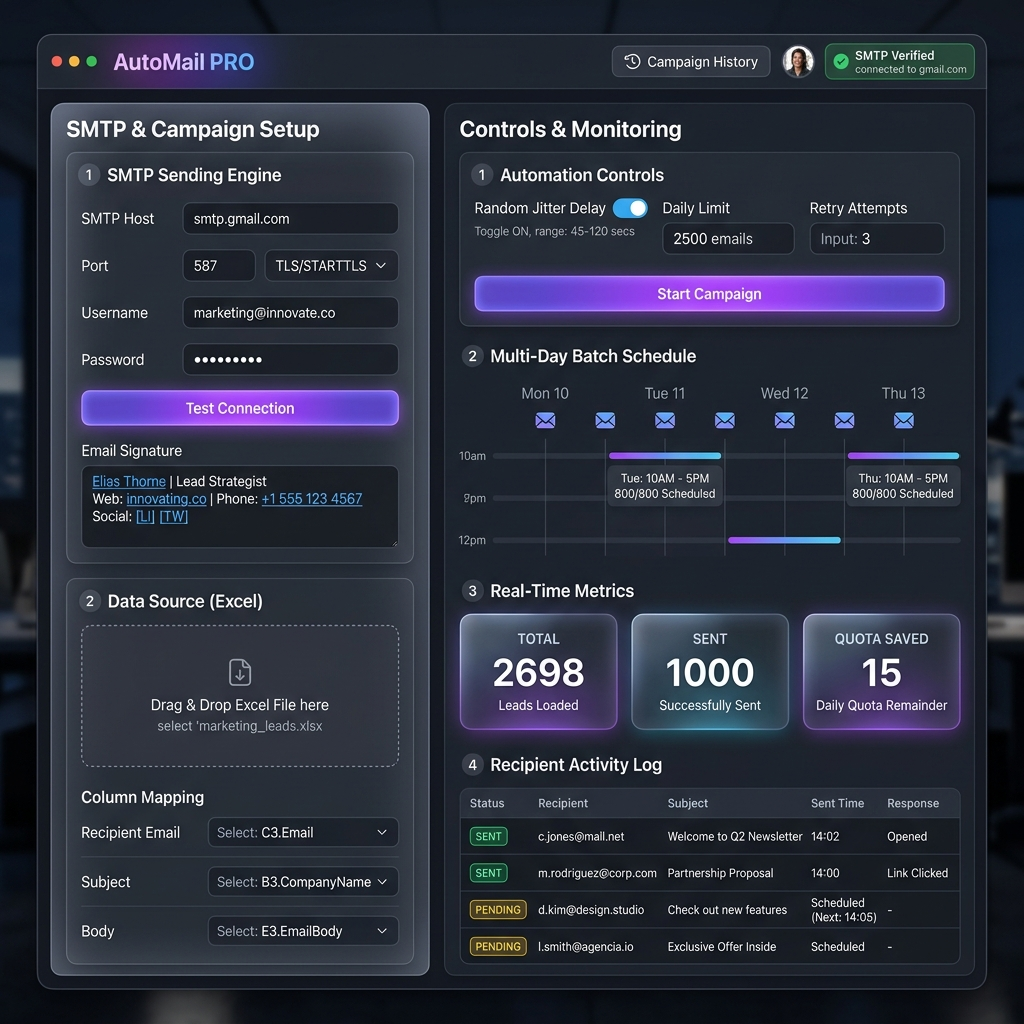
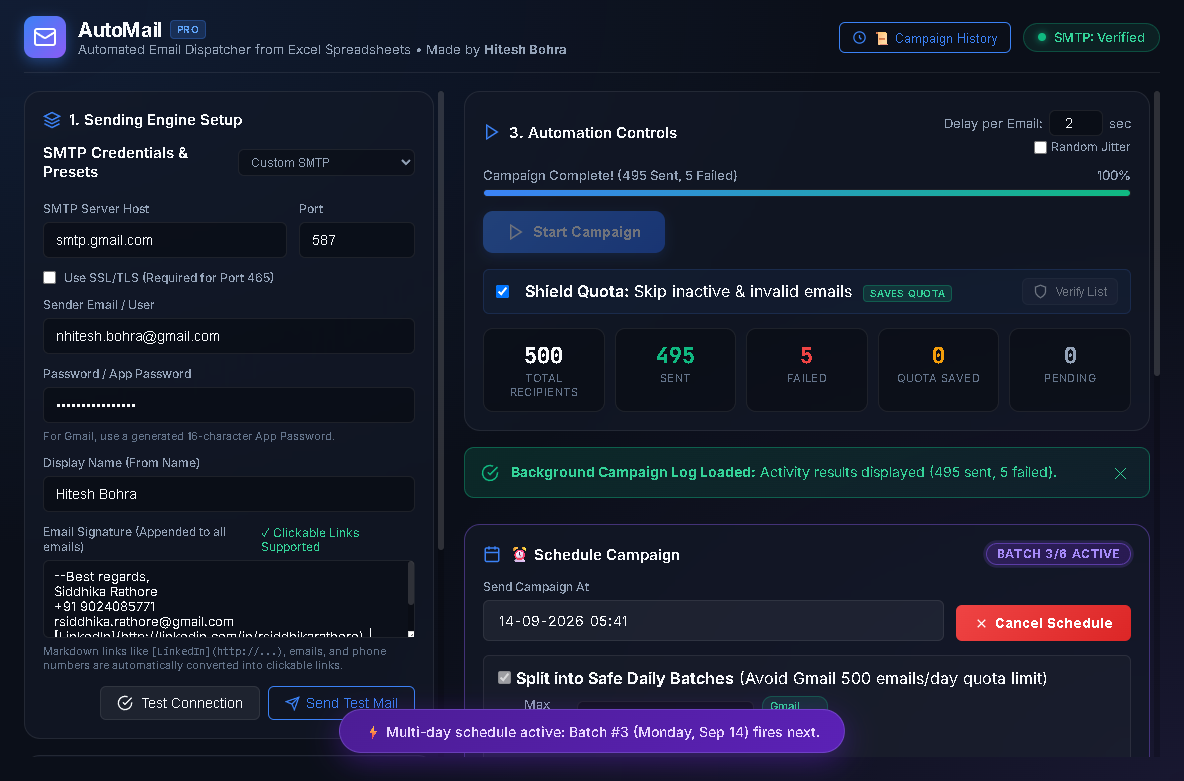
docs: replace README image with authentic live screenshot captured directly from running Electron app

diff --git a/src/renderer.js b/src/renderer.js
@@ -1511,6 +1511,67 @@ document.addEventListener('DOMContentLoaded', () => {
     showScheduleToast(`⚡ Scheduled in Windows Task Scheduler: Campaign fires at ${targetDate.toLocaleString()}`);
   })();
 
+  // ── Screenshot Capture Mode Setup ─────────────────────────────────────────
+  if (window.location.search.includes('screenshot=true')) {
+    (async () => {
+      if (smtpHost) smtpHost.value = 'smtp.gmail.com';
+      if (smtpPort) smtpPort.value = '587';
+      if (smtpUser) smtpUser.value = 'nhitesh.bohra@gmail.com';
+      if (smtpFromName) smtpFromName.value = 'Hitesh Bohra';
+      if (smtpPass) smtpPass.value = 'abcdefghijklmnop';
+      if (emailSignature) emailSignature.value = '--\nBest regards,\nHitesh Bohra\n+91 9876543210 | [LinkedIn](https://linkedin.com/in/nhiteshbohra) | [GitHub](https://github.com/nhiteshbohra)';
+      
+      const badge = document.getElementById('smtpStatusBadge');
+      if (badge) {
+        badge.className = 'status-indicator connected';
+        badge.querySelector('.text').textContent = 'SMTP: Verified';
+      }
+
+      if (chkJitterDelay && jitterRangeBox) {
+        chkJitterDelay.checked = true;
+        jitterRangeBox.classList.remove('hidden');
+      }
+
+      // Load sample file if available
+      try {
+        const samplePath = 'f:\\projects\\bulkmail\\sample_contacts.xlsx';
+        const res = await window.electronAPI.parseFile(samplePath);
+        if (res && res.success) {
+          state.excelData = res;
+          if (fileInfoBox && fileNameText && fileRowsCount) {
+            fileNameText.textContent = res.fileName;
+            fileRowsCount.textContent = `${res.totalRows} rows loaded`;
+            fileInfoBox.classList.remove('hidden');
+            if (dropZone) dropZone.classList.add('hidden');
+          }
+          if (mappingSection) mappingSection.classList.remove('hidden');
+          populateColumnSelects(res.headers);
+          
+          // Auto map columns
+          if (mapEmail) mapEmail.value = res.headers.find(h => /email/i.test(h)) || res.headers[0];
+          if (mapTopic) mapTopic.value = res.headers.find(h => /topic|subject/i.test(h)) || res.headers[1] || res.headers[0];
+          if (mapBody) mapBody.value = res.headers.find(h => /body|message/i.test(h)) || res.headers[2] || res.headers[0];
+          generateLogsFromMapping();
+
+          // Mark some logs as sent for beautiful UI counters
+          if (state.campaignLogs.length >= 10) {
+            for (let i = 0; i < 8; i++) {
+              state.campaignLogs[i].status = 'sent';
+              state.campaignLogs[i].sentTime = new Date().toLocaleTimeString();
+              state.campaignLogs[i].error = '-';
+            }
+            state.campaignLogs[8].status = 'failed';
+            state.campaignLogs[8].sentTime = new Date().toLocaleTimeString();
+            state.campaignLogs[8].error = 'Recipient mailbox full (552)';
+            renderLogTable();
+            updateMetrics();
+          }
+        }
+      } catch (e) { console.error('Screenshot pre-load error:', e); }
+    })();
+  }
+
+
   function showScheduleToast(message) {
     const toast = document.createElement('div');
     toast.className = 'schedule-toast';

diff --git a/main.js b/main.js
@@ -24,7 +24,32 @@ function createWindow() {
     }
   });
 
-  mainWindow.loadFile(path.join(__dirname, 'src', 'index.html'));
+  const isScreenshotMode = process.env.CAPTURE_SCREENSHOT === 'true' || process.argv.some(arg => String(arg).includes('capture-screenshot'));
+  if (isScreenshotMode) {
+    mainWindow.once('ready-to-show', () => {
+      mainWindow.show();
+      mainWindow.focus();
+    });
+    mainWindow.webContents.on('did-finish-load', () => {
+      setTimeout(async () => {
+        try {
+          const image = await mainWindow.webContents.capturePage();
+          const imgPath = path.join(__dirname, 'image.png');
+          fs.writeFileSync(imgPath, image.toPNG());
+          console.log('[AutoMail] Screenshot captured successfully to image.png! Bytes:', image.toPNG().length);
+          app.exit(0);
+        } catch (err) {
+          console.error('[AutoMail] Failed to capture screenshot:', err.message);
+          app.exit(1);
+        }
+      }, 4500);
+    });
+    mainWindow.loadFile(path.join(__dirname, 'src', 'index.html'), { query: { screenshot: 'true' } });
+  } else {
+    mainWindow.loadFile(path.join(__dirname, 'src', 'index.html'));
+  }
+
+
 
   mainWindow.on('closed', () => {
     mainWindow = null;
@@ -33,6 +58,7 @@ function createWindow() {
   // Remove default menu for a clean app feel
   mainWindow.setMenuBarVisibility(false);
 }
+
 
 app.whenReady().then(() => {
   createWindow();
